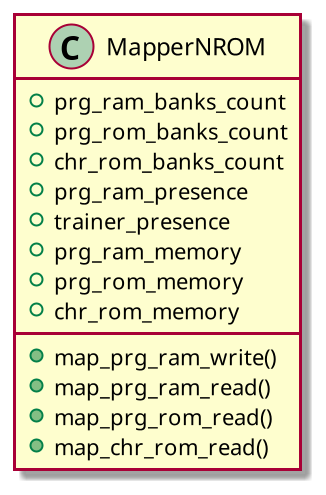
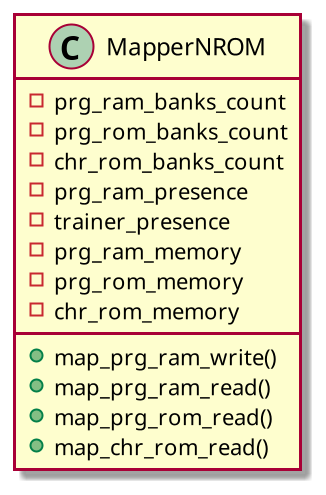
Make class Cartridge friend of class MapperNROM

Changed region(s): [[0.092, 0.1818, 0.1534, 0.6667]]

diff --git a/include/cartridge/mapper_nrom.h b/include/cartridge/mapper_nrom.h
@@ -16,6 +16,12 @@ using CartridgeContents = std::vector<uint8_t>;
 
 class MapperNROM {
 public:
+    void    map_prg_ram_write(uint16_t address, uint8_t data);
+    uint8_t map_prg_ram_read(uint16_t address) const;
+    uint8_t map_prg_rom_read(uint16_t address) const;
+    uint8_t map_chr_rom_read(uint16_t address) const;
+
+private:
     int prg_ram_banks_count {0};
     int prg_rom_banks_count {0};
     int chr_rom_banks_count {0};
@@ -30,9 +36,5 @@ public:
     CartridgeContents chr_rom_memory {
         CartridgeContents(MapperConsts::chr_rom_bank_size, 0x00)};
 
-
-    void    map_prg_ram_write(uint16_t address, uint8_t data);
-    uint8_t map_prg_ram_read(uint16_t address) const;
-    uint8_t map_prg_rom_read(uint16_t address) const;
-    uint8_t map_chr_rom_read(uint16_t address) const;
+    friend class Cartridge;
 };

diff --git a/include/cartridge/cartridge.h b/include/cartridge/cartridge.h
@@ -26,14 +26,15 @@ public:
 
 
     bool load_cartridge(const std::string& cartridge_path);
-    bool dump_cartridge_into_vector(const std::string& cartridge_path);
-    bool decode_header();
 
 private:
     CartridgeContents cartridge_dump {};
     CartridgeContents header {CartridgeContents(CartridgeConsts::header_size, 0x00)};
     int current_mapper_id {0};
 
+
+    bool    dump_cartridge_into_vector(const std::string& cartridge_path);
+    bool    decode_header();
 
     bool    check_for_nes_logo_in_header() const;
     bool    check_for_mirroring_mode() const;

diff --git a/src/cartridge/cartridge.cpp b/src/cartridge/cartridge.cpp
@@ -62,6 +62,11 @@ bool Cartridge::load_cartridge(const std::string& cartridge_path)
     return true;
 }
 
+
+///////////////////
+// File decoding //
+///////////////////
+
 bool Cartridge::dump_cartridge_into_vector(const std::string& cartridge_path)
 {
     if (!std::filesystem::exists(cartridge_path)) {
